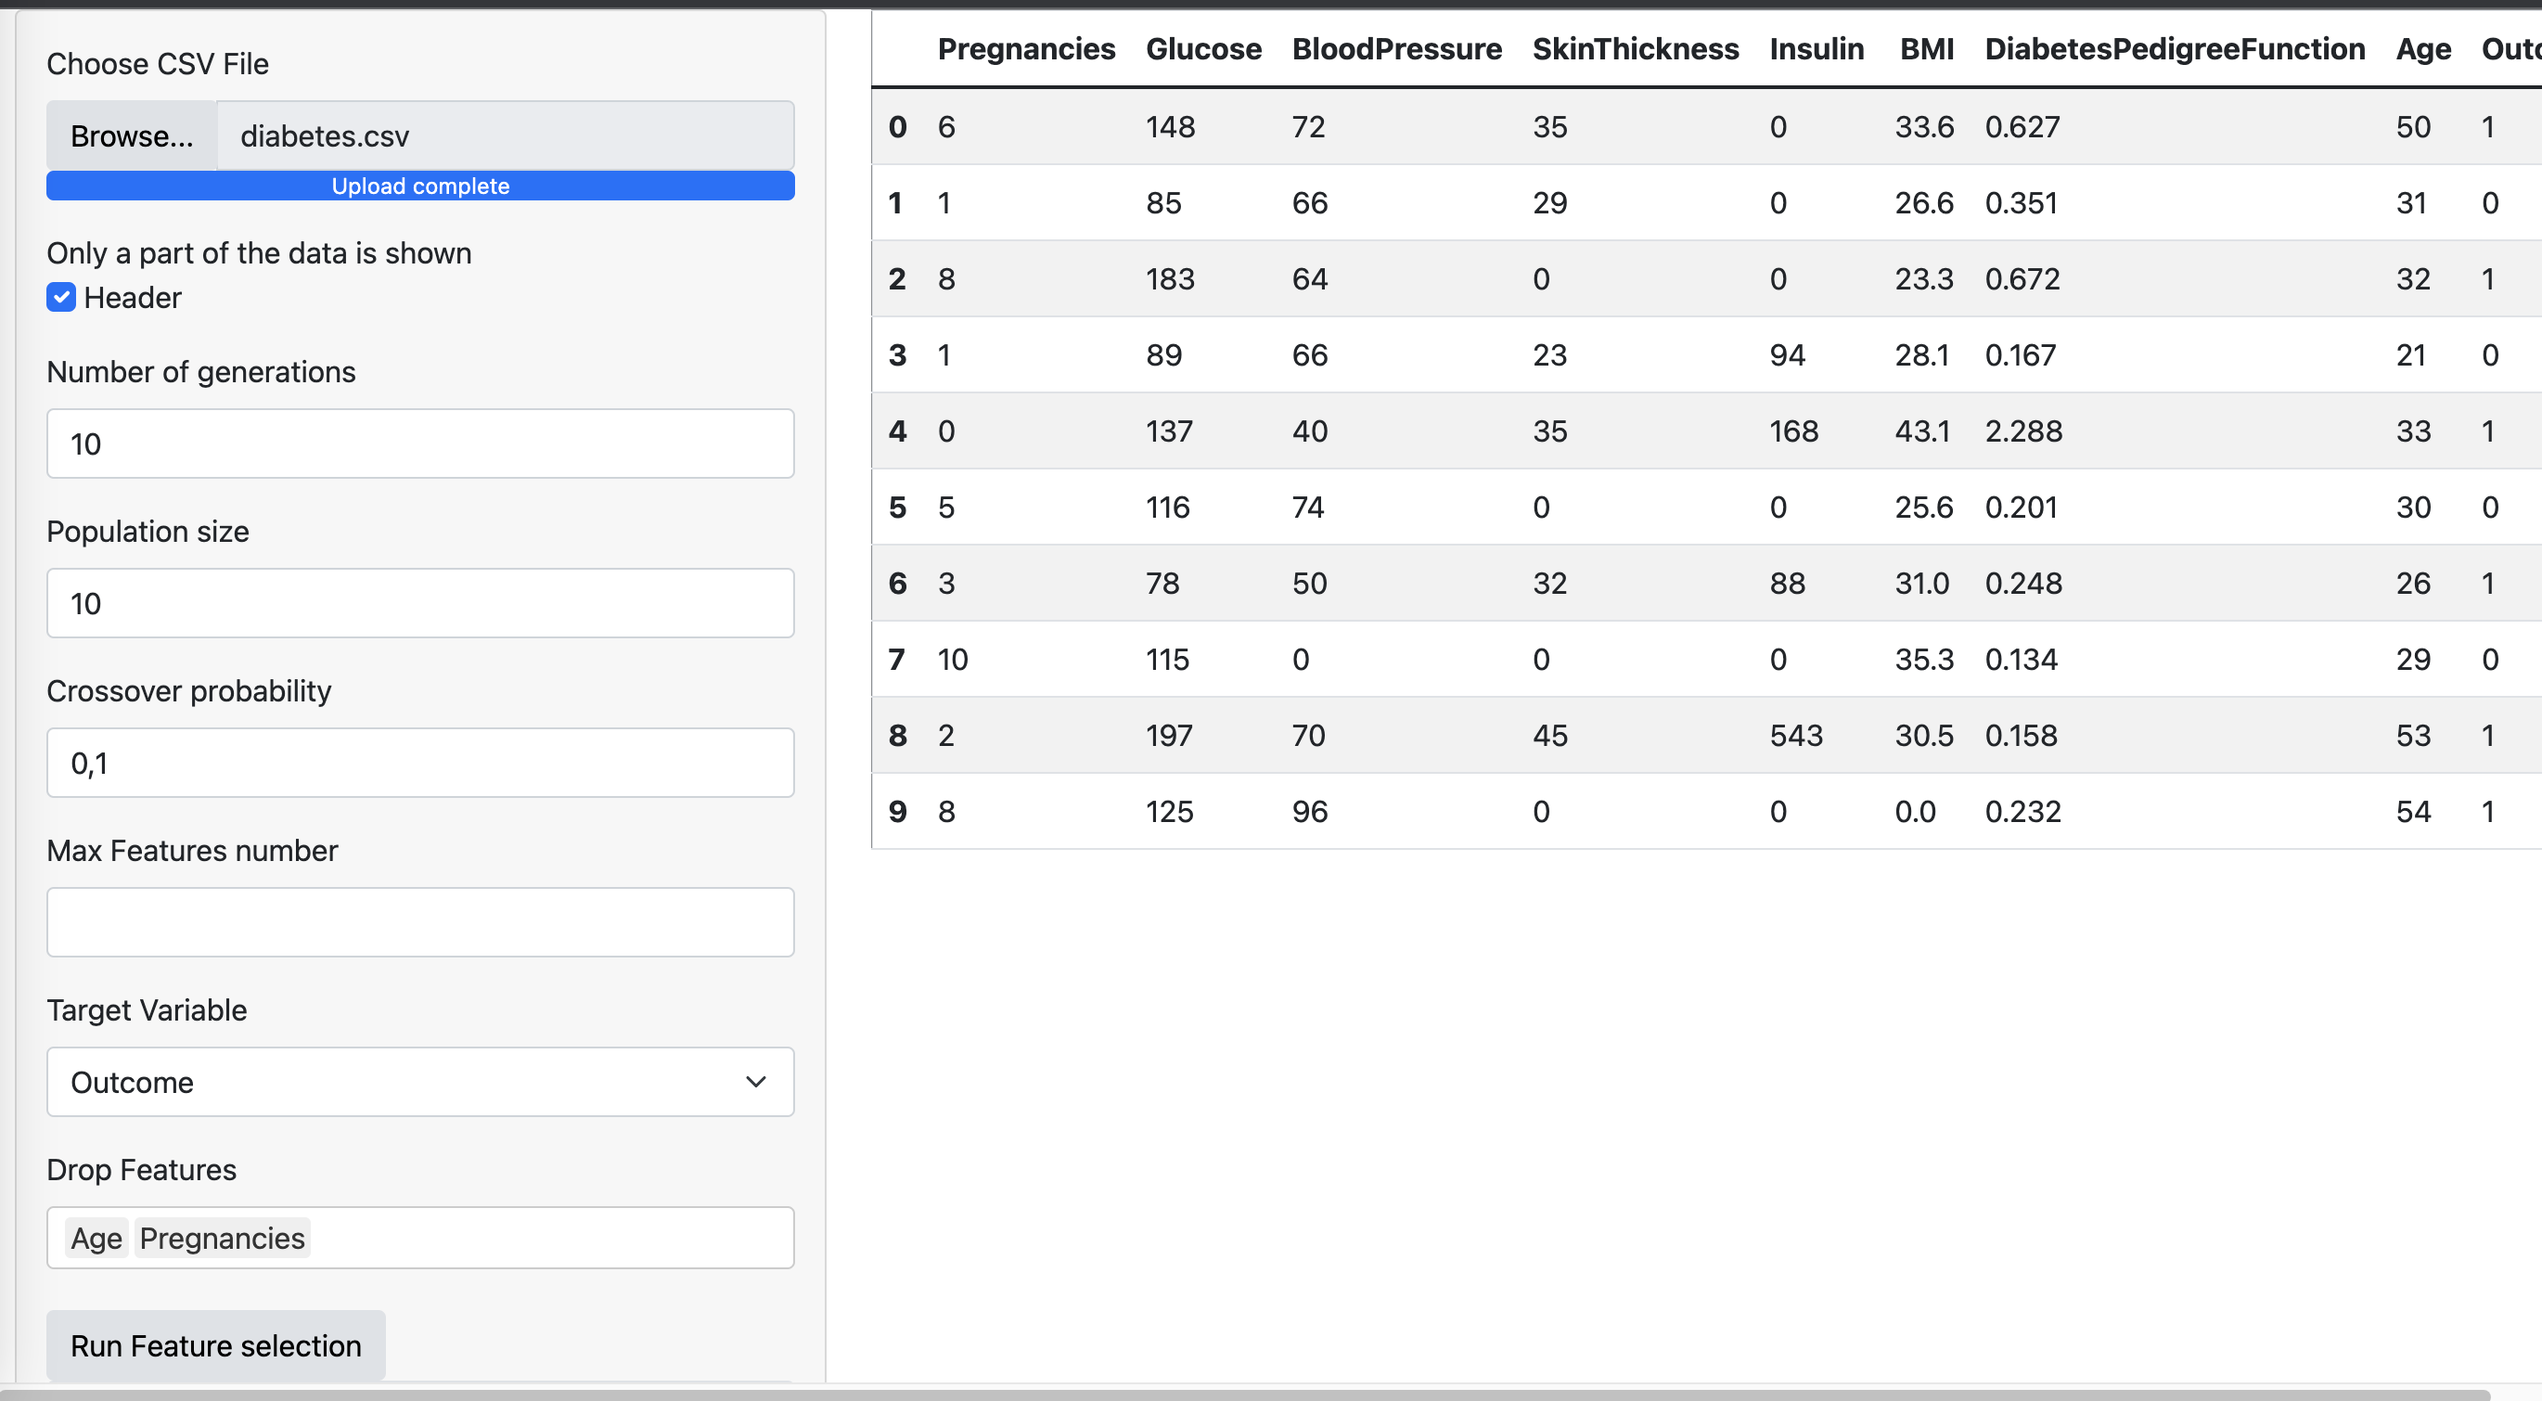
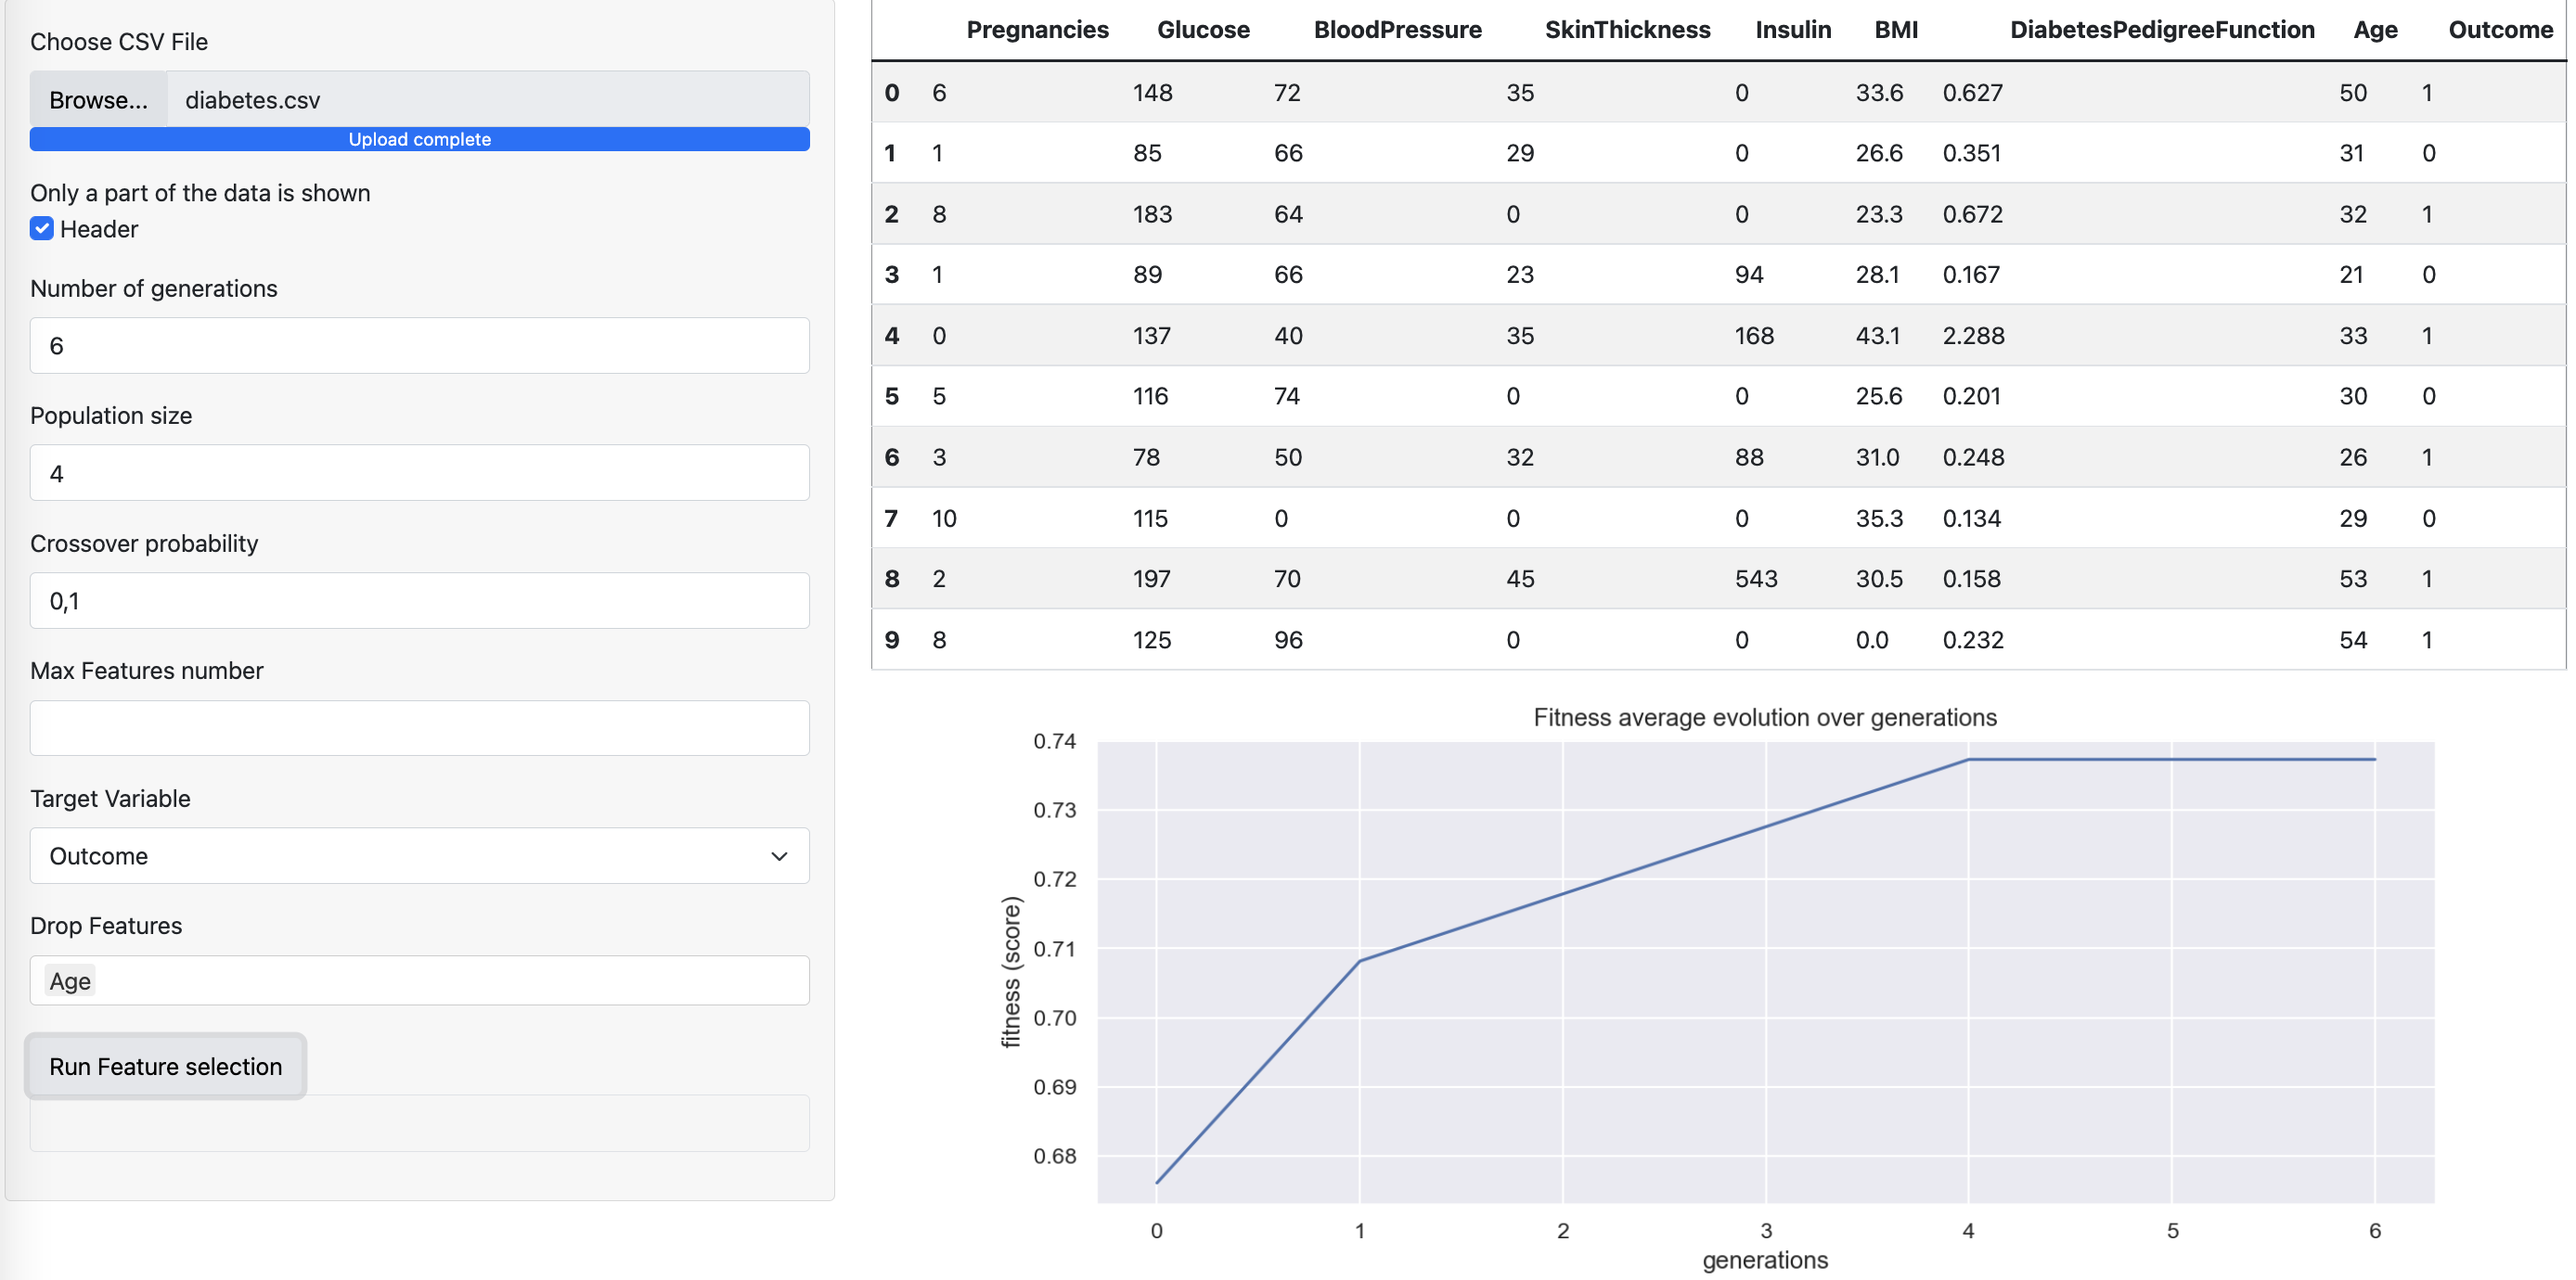
update add plot feedback

diff --git a/GA_select.py b/GA_select.py
@@ -66,6 +66,7 @@ clf, X_train_trans, X_test_trans, y_test, y_train):
         generations=generations,
         n_jobs=-1,
         crossover_probability=crossover_probability,
+        mutation_probability=0.05,
         verbose=True,
         max_features= max_features,
         keep_top_k=3,
@@ -78,15 +79,19 @@ clf, X_train_trans, X_test_trans, y_test, y_train):
     y_predict_ga = evolved_estimator.predict(X_test_trans.iloc[:,features])
     accuracy = accuracy_score(y_test, y_predict_ga)
     print(evolved_estimator.best_features_)
+    
     plt.figure()
-    plot_fitness_evolution(evolved_estimator, metric="fitness")
+    plot = plot_fitness_evolution(evolved_estimator, metric="fitness")
     plt.savefig('fitness.png')
 
     #print(f'Selected features:', X_test_trans.iloc[:,features].columns)
     selected_features= X_test_trans.iloc[:,features].columns
     cv_results= evolved_estimator.cv_results_
     history= evolved_estimator.history
-    return cv_results, history, selected_features
+    
+
+    
+    return cv_results, history, selected_features, plot
 
 
 def main(generations, population_size, crossover_probability, 
@@ -94,7 +99,7 @@ def main(generations, population_size, crossover_probability,
                 y_test, y_train, hr_start_time):
     print("Running main function")
 
-    cv_results, history, selected_features =run_GA(generations=generations,
+    cv_results, history, selected_features, plot =run_GA(generations=generations,
                                 population_size=population_size,
                                 crossover_probability=crossover_probability,
                                 max_features=max_features,
@@ -113,9 +118,11 @@ def main(generations, population_size, crossover_probability,
     plt.savefig('history_results.png')
 
     pd.DataFrame(selected_features).to_csv(str(hr_start_time) +'_selected_features.csv')
+    
 
-    return history_df, selected_features
 
+
+    return history_df, selected_features, plot
 
 
 def parameters (generations, population_size, crossover_probability, 
@@ -126,28 +133,31 @@ def parameters (generations, population_size, crossover_probability,
     crossover_probability =float(crossover_probability)
 
     if max_features is not None:
-        print ("max_features has been set (value is %s)", max_features)
+        print (f"max_features has been set (value is %s)", max_features)
         max_features = int(max_features)
     else:
         max_features = None
-        print ("max_features has not been set (value is %s)",  max_features)
+        print (f"max_features has not been set (value is %s)",  max_features)
 
+
+
+    start_time = time.time()
+    hr_start_time = datetime.datetime.fromtimestamp(start_time).strftime('%Y%m%d_%H-%M-%S')
+    
     RESULTS_DIR = outdir
 
-    LOG_FILE = os.path.join(RESULTS_DIR, f'log.txt')
+    LOG_FILE = os.path.join(RESULTS_DIR , str(hr_start_time) +f'_log.txt')
     if os.path.exists(LOG_FILE):
         os.remove(LOG_FILE)
     logging.basicConfig(format='%(levelname)s:%(message)s',
                         level=logging.INFO,
                         handlers=[logging.FileHandler(LOG_FILE),
                         logging.StreamHandler()])
-
-    start_time = time.time()
-    hr_start_time = datetime.datetime.fromtimestamp(start_time).strftime('%Y%m%d_%H-%M-%S')
+    
     logging.info(f"starting time: {hr_start_time}")
 
 
-    history_df, selected_features = main(generations, population_size, crossover_probability, 
+    history_df, selected_features, plot = main(generations, population_size, crossover_probability, 
                 max_features, outdir, clf, X_train_trans, X_test_trans, y_test, y_train, hr_start_time)
 
 
@@ -165,4 +175,4 @@ def parameters (generations, population_size, crossover_probability,
 
     logging.info(TOTAL_TIME)
     logging.info('done!')
-    return hr_start_time
+    return hr_start_time, plot

diff --git a/app.py b/app.py
@@ -3,6 +3,8 @@ from shiny.types import FileInfo
 import pandas as pd
 from GA_select import parameters,split_transform_data, data_process
 import os
+import matplotlib.pyplot as plt
+
 
 
 app_ui = ui.page_fluid(
@@ -12,9 +14,9 @@ app_ui = ui.page_fluid(
             ui.input_file("file1", "Choose CSV File", accept=[".csv"], multiple=False),
             ui.output_text("txt"),
             ui.input_checkbox("header", "Header", True),
-            ui.input_numeric("Generations", "Number of generations", value = 10, step =1),
-            ui.input_numeric("Size", "Population size", value = 10, step =1),
-            ui.input_numeric("Crossover", "Crossover probability", value = 0.1, step =0.1),
+            ui.input_numeric("Generations", "Number of generations", value = 4, step =1, max=100),
+            ui.input_numeric("Size", "Population size", value = 4, step =1),
+            ui.input_numeric("Crossover", "Crossover probability", value = 0.1, step =0.1, max=0.5),
             ui.input_numeric("Max_features_number", "Max Features number", value = None, step=10),
             
         
@@ -26,10 +28,14 @@ app_ui = ui.page_fluid(
             
             ui.input_action_button("run", "Run Feature selection"),
             ui.output_text_verbatim("done", placeholder=True),
-
+            ui.output_table("table"),
+            
             
         ),
-        ui.panel_main(ui.output_ui("contents")),
+        ui.panel_main(ui.output_ui("contents"),
+                      ui.output_plot("plot_fitness"),),
+        
+
     )
 )
 
@@ -60,13 +66,15 @@ def server(input: Inputs, output: Outputs, session: Session):
 
 
 
-        # The @reactive.event() causes the function to run only when input.btn is
+        # The @reactive.event() causes the function to run only when input.run is
         # invalidated.
         @reactive.Effect
         @reactive.event(input.run)
-        def _():
-            #req(input.update())
+        def table():
+
             ui.update_action_button("run")
+            ui.notification_show("Feature selection is running. Results will be plotted when run is finished!", type="message", duration=None)
+            
             Target = input.Targets.get()
             Generations = input.Generations.get()
             Size = input.Size.get()
@@ -82,16 +90,25 @@ def server(input: Inputs, output: Outputs, session: Session):
             clf, X_train_trans, X_test_trans, y_test, y_train, accuracy_no_GA  = split_transform_data(X = X, y= y)
 
 
-            hr_start_time = parameters (generations = Generations, population_size =  Size, 
+            hr_start_time, plot = parameters (generations = Generations, population_size =  Size, 
             crossover_probability = Crossover, max_features = Max_features_number,
             outdir = outdir, clf = clf, X_train_trans = X_train_trans, 
             X_test_trans =X_test_trans, y_test =y_test, y_train = y_train,  accuracy_no_GA =  accuracy_no_GA, additional_columns =columns_to_drop)
+            
+            
             ui.notification_show("Feature selection is done", type="message", duration=None)
 
-    
+            
+            
+            @output
+            @render.plot(alt="Fitness plot")
+            def plot_fitness():
+                    fig = plot
+                    return (fig)
+        
         return ui.HTML(df.head(10).to_html(classes="table table-striped"))
 
-    
+
     @output
     @render.text
     def txt():
